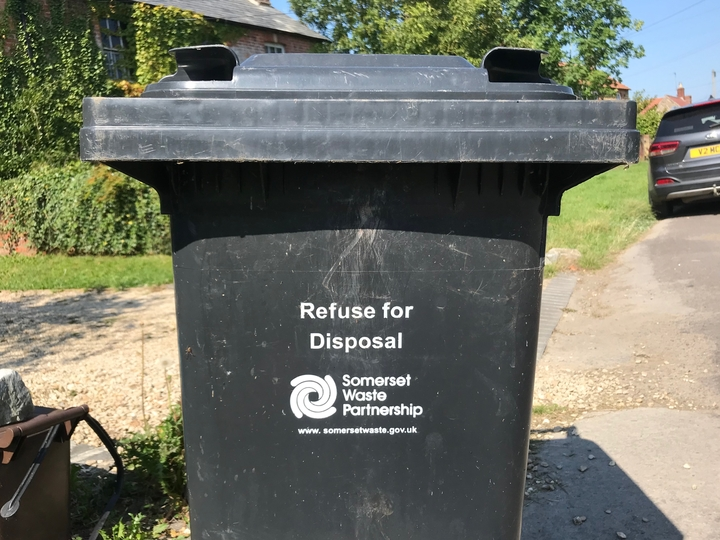
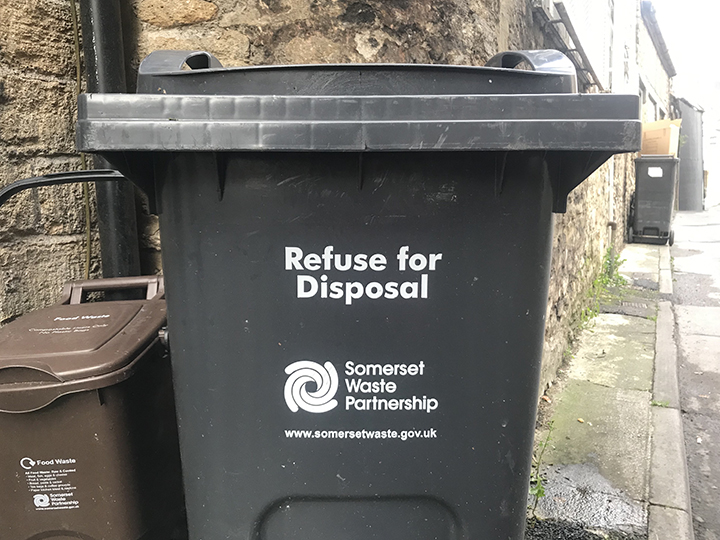
Update Somerset bin

diff --git a/index.html b/index.html
@@ -36,6 +36,12 @@
     			<div class="container-fluid">
 		    	<div class="row">
 				<div class="col-xs-6 col-sm-6 col-md-6 col-lg-4 bin">
+			      	<img src="images/Somerset.jpg" class="img-responsive" alt="Responsive image">
+					<h3 id="council-name" data-local-authority-eng="SOM"></h3>
+					<p id="collection-date">7.12.2019</p>
+					<br>
+				</div>
+				<div class="col-xs-6 col-sm-6 col-md-6 col-lg-4 bin">
 			      	<img src="images/Brentwood.jpg" class="img-responsive" alt="Responsive image">
 					<h3 id="council-name" data-local-authority-eng="BRW"></h3>
 					<p id="collection-date">29.11.2019</p>
@@ -93,12 +99,6 @@
 			      	<img src="images/Harlow.jpg" class="img-responsive" alt="Responsive image">
 					<h3 id="council-name" data-local-authority-eng="HAR"></h3>
 					<p id="collection-date">24.9.2019</p>
-					<br>
-				</div>
-				<div class="col-xs-6 col-sm-6 col-md-6 col-lg-4 bin">
-			      	<img src="images/Somerset.jpg" class="img-responsive" alt="Responsive image">
-					<h3 id="council-name" data-local-authority-eng="SOM"></h3>
-					<p id="collection-date">25.8.2019</p>
 					<br>
 				</div>
 				<div class="col-xs-6 col-sm-6 col-md-6 col-lg-4 bin">
